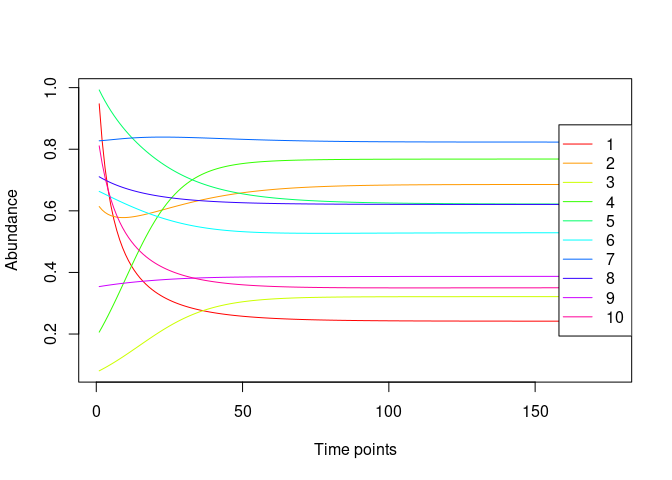
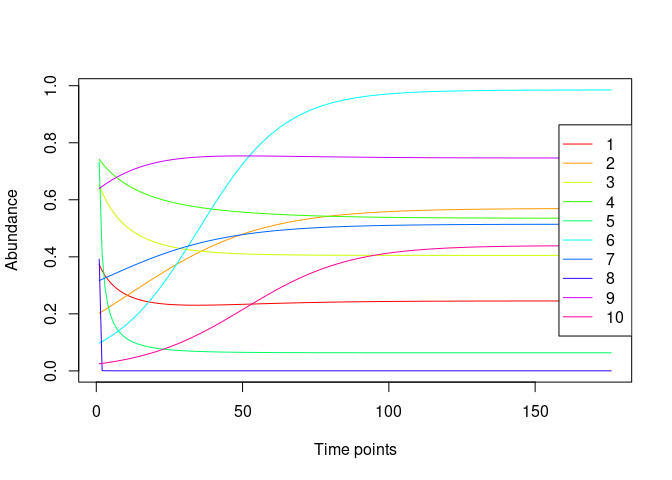
rcode: Correlations cannot distinguish interaction types

diff --git a/README.md b/README.md
@@ -331,7 +331,14 @@ for ( t in 1:length( community.samples.survival )) {
 }
 ```
 
-    ## [1]  10 280
+    ## [1]  10 400
+    ## [1]  10 400
+    ## [1]  10 400
+    ## [1]  10 400
+    ## [1]  10 393
+    ## [1]  10 400
+    ## [1]  10 339
+    ## [1]  10 271
     ## [1] "not enough species survived"
     ## [1]  10 400
     ## [1]  10 400
@@ -341,22 +348,17 @@ for ( t in 1:length( community.samples.survival )) {
     ## [1]  10 400
     ## [1]  10 400
     ## [1]  10 400
+    ## [1]  10 257
+    ## [1] "not enough species survived"
+    ## [1]  10 400
+    ## [1]  10 400
+    ## [1]  10 383
     ## [1]  10 400
     ## [1]  10 400
     ## [1]  10 400
     ## [1]  10 400
-    ## [1]  10 399
-    ## [1]  10 400
-    ## [1]  10 400
-    ## [1]  10 324
-    ## [1]  10 400
-    ## [1]  10 400
-    ## [1]  10 400
-    ## [1]  10 400
-    ## [1]  10 400
-    ## [1]  10 400
-    ## [1]  10 400
-    ## [1]  10 400
+    ## [1]  10 174
+    ## [1] "not enough species survived"
 
 ``` r
 # Check if there are simulations with not enough species or samples
@@ -372,7 +374,14 @@ for ( u in 1:length( community.samples.survival ) ) {
 }
 ```
 
-    ## [1] 1
+    ## [1] NA
+    ## [1] NA
+    ## [1] NA
+    ## [1] NA
+    ## [1] NA
+    ## [1] NA
+    ## [1] NA
+    ## [1] 8
     ## [1] NA
     ## [1] NA
     ## [1] NA
@@ -381,6 +390,7 @@ for ( u in 1:length( community.samples.survival ) ) {
     ## [1] NA
     ## [1] NA
     ## [1] NA
+    ## [1] 17
     ## [1] NA
     ## [1] NA
     ## [1] NA
@@ -388,15 +398,7 @@ for ( u in 1:length( community.samples.survival ) ) {
     ## [1] NA
     ## [1] NA
     ## [1] NA
-    ## [1] NA
-    ## [1] NA
-    ## [1] NA
-    ## [1] NA
-    ## [1] NA
-    ## [1] NA
-    ## [1] NA
-    ## [1] NA
-    ## [1] NA
+    ## [1] 25
 
 ``` r
 # Remove empty list elements
@@ -720,10 +722,10 @@ F1.score.data.2 <- F1.score.data %>% melt( ., id.vars = "F1.score" )
 str( F1.score.data.2 )
 ```
 
-    ## 'data.frame':    72 obs. of  3 variables:
+    ## 'data.frame':    66 obs. of  3 variables:
     ##  $ Var1 : int  1 2 3 4 5 6 7 8 9 10 ...
     ##  $ Var2 : Factor w/ 3 levels "Precision"," Recall",..: 1 1 1 1 1 1 1 1 1 1 ...
-    ##  $ value: num  1 0.667 1 1 1 ...
+    ##  $ value: num  1 1 1 1 1 1 1 0.75 1 1 ...
 
 ``` r
 F1.score.data.2$value <- as.numeric( as.character( F1.score.data.2$value ))
